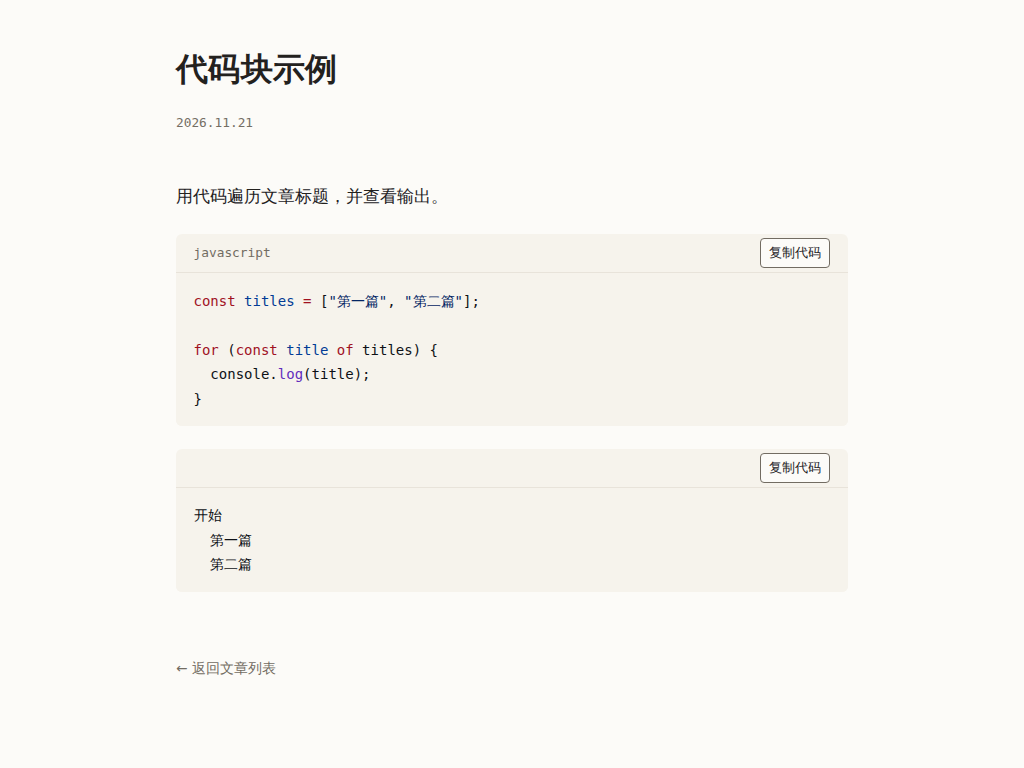
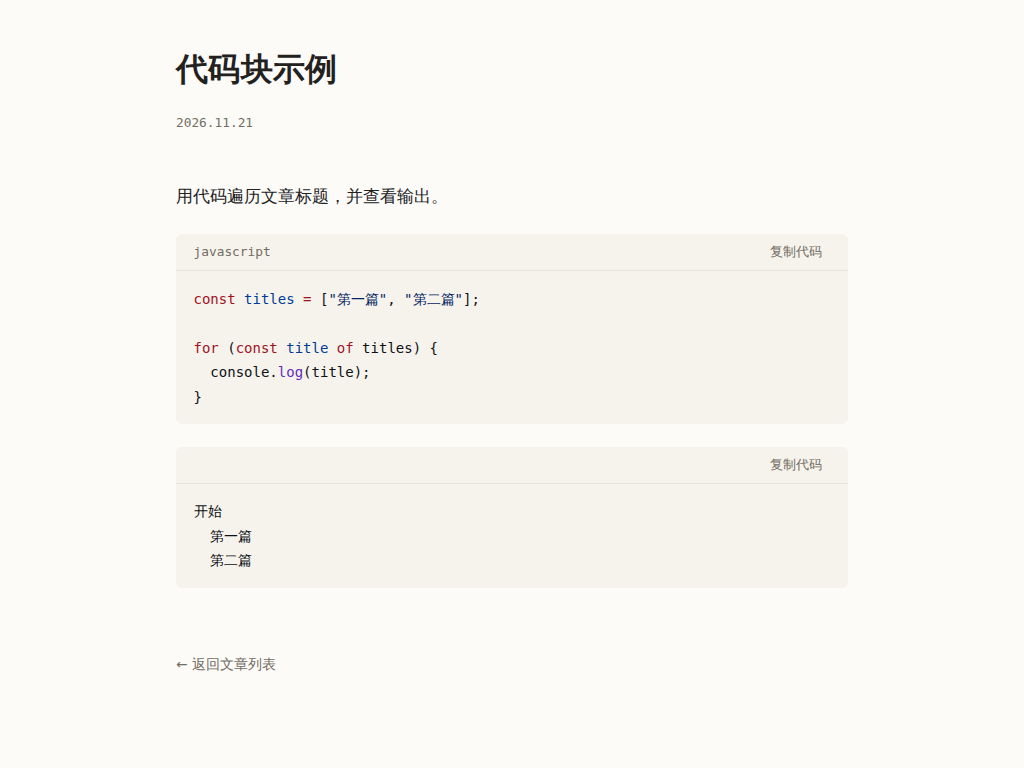
style: 简化代码块复制按钮

diff --git a/src/styles/global.css b/src/styles/global.css
@@ -314,10 +314,9 @@ main {
 
 .code-block-copy {
   padding: 0.25rem 0.5rem;
-  border: 1px solid var(--muted);
-  border-radius: 4px;
-  background: var(--bg);
-  color: var(--fg);
+  border: 0;
+  background: transparent;
+  color: inherit;
   font: inherit;
   cursor: pointer;
 }
